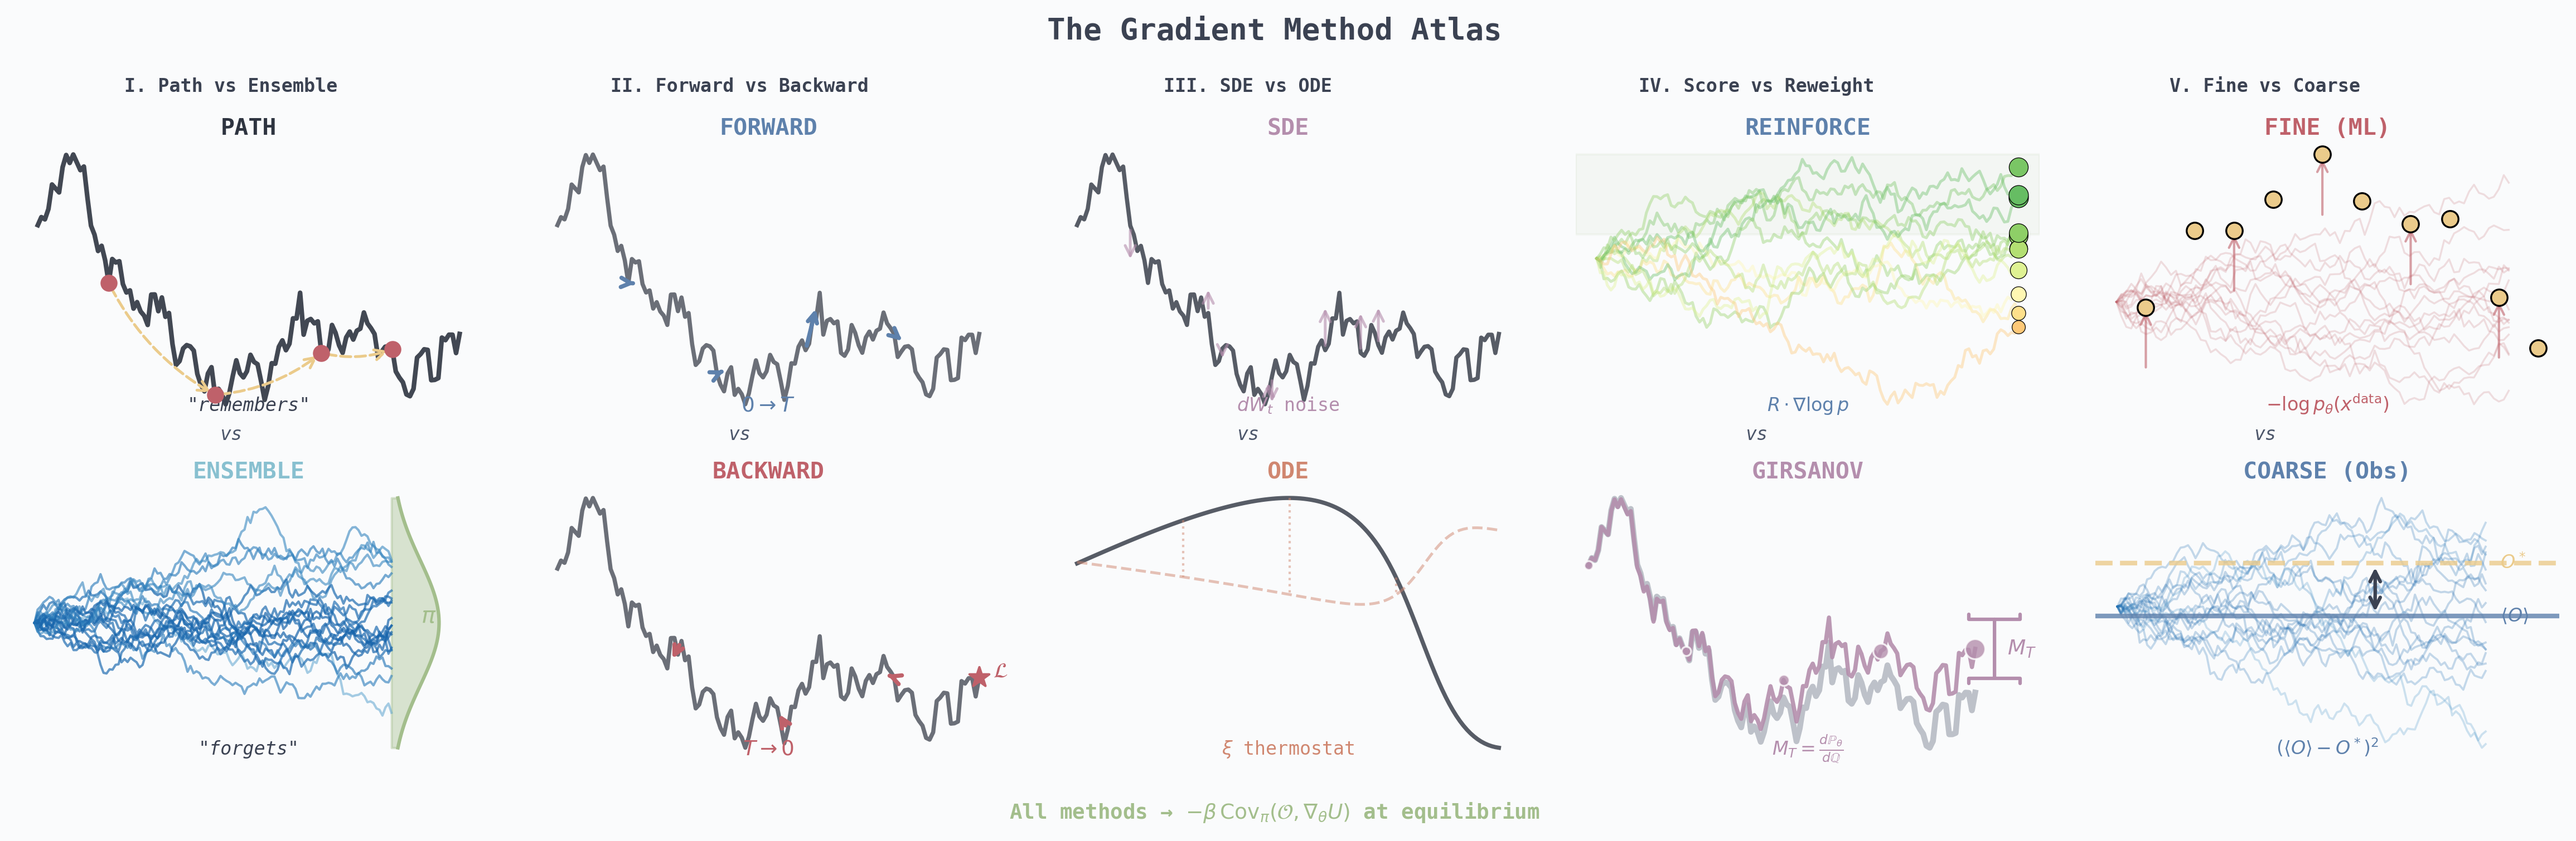
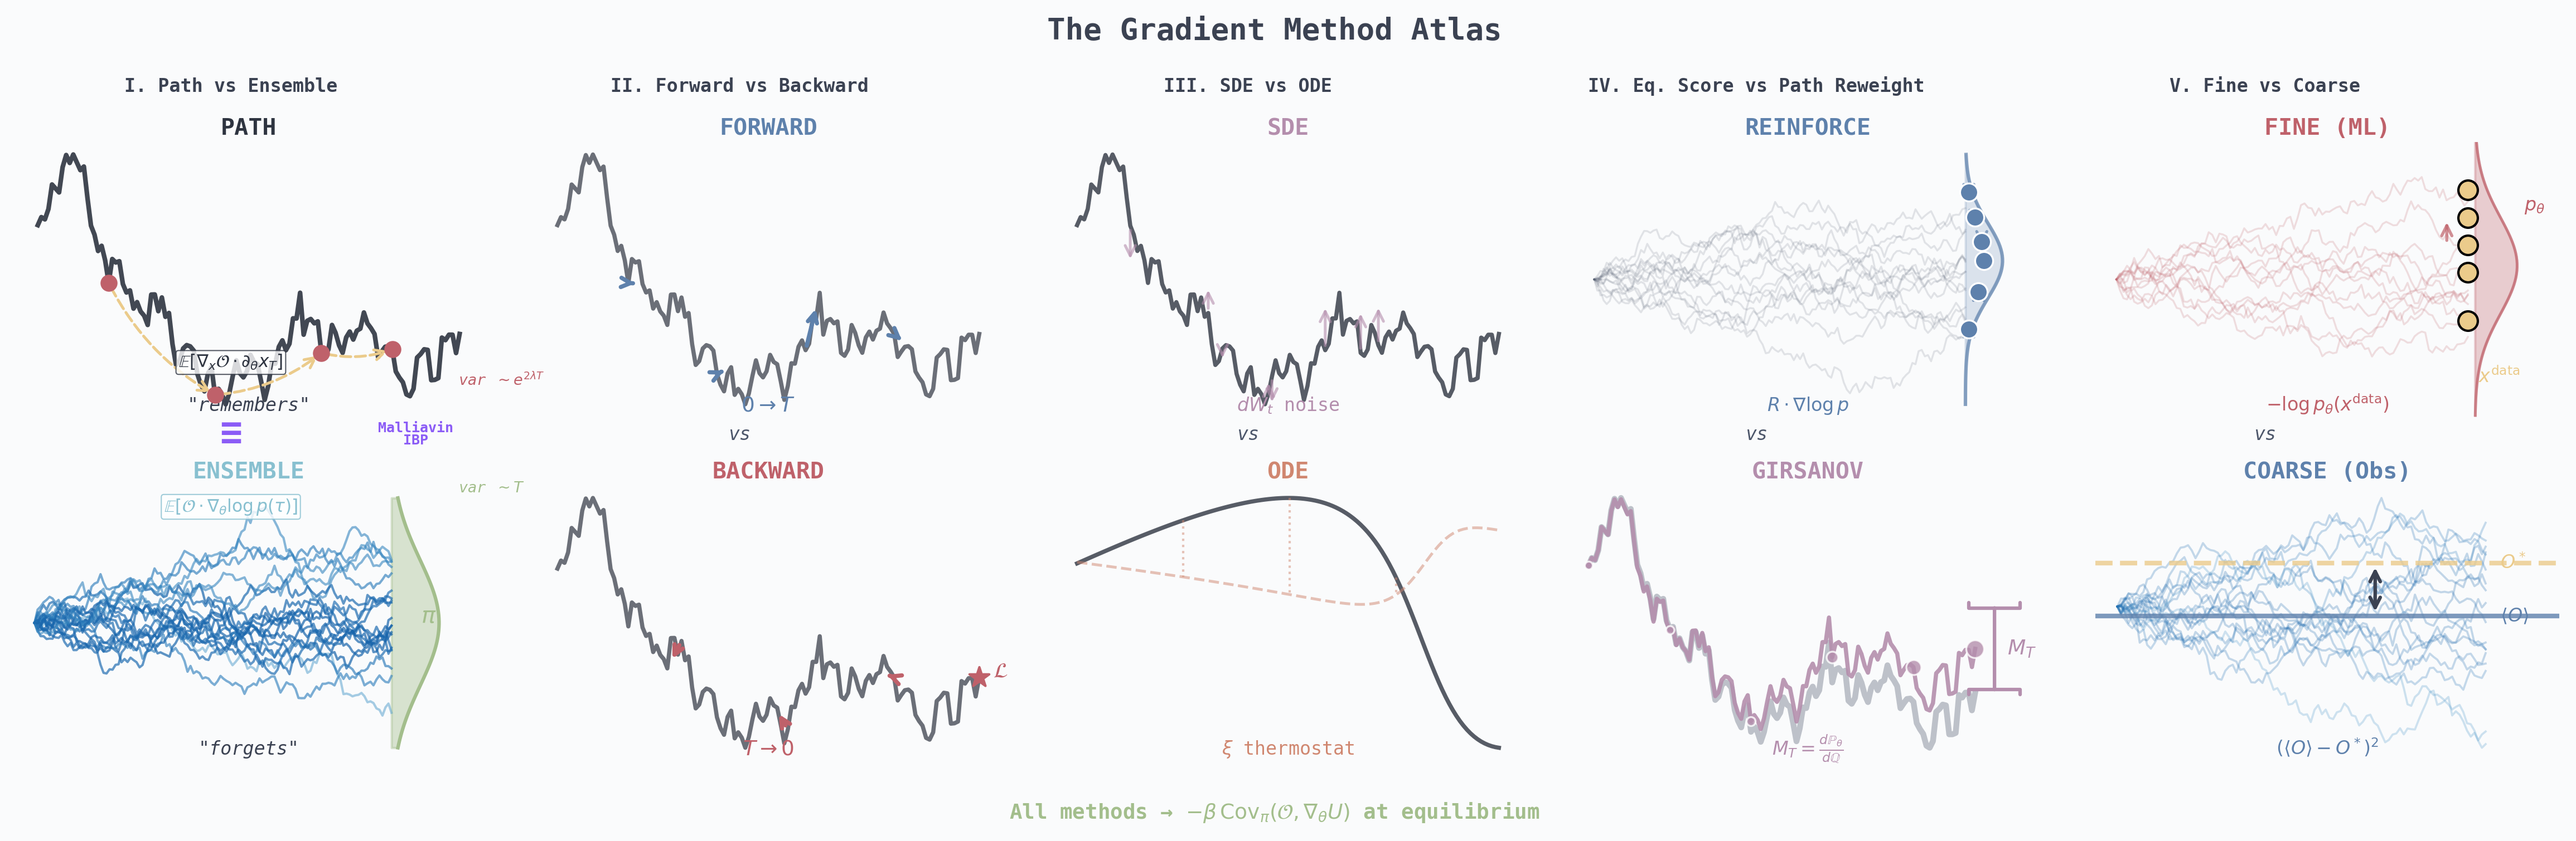
tweka ML plot; add IVP connection

diff --git a/scripts/visualize_gradient_atlas.py b/scripts/visualize_gradient_atlas.py
@@ -107,11 +107,15 @@ def draw_flow_arrow(ax, t, x, idx, direction='forward', color='black', size=10):
 # =============================================================================
 
 def plot_path(ax):
-    """Single path - remembers everything."""
+    """Single path - remembers everything. Pathwise/reparameterization gradient.
+    
+    Pathwise: E[∇_x O · ∂x_T/∂θ] - explicit Jacobian Φ(T,t)
+    Variance ~ exp(2λT) due to Lyapunov instability
+    """
     t, x = generate_sde_trajectory(seed=42, n_steps=120)
     ax.plot(t, x, color=ATLAS_COLORS['path_single'], lw=2, alpha=0.9)
     
-    # Mark memory chain
+    # Mark sensitivity chain - Jacobian Φ(T,t) propagates through history
     events = [20, 50, 80, 100]
     for ev in events:
         ax.scatter(t[ev], x[ev], s=40, color=ATLAS_COLORS['arrow_bwd'], zorder=10)
@@ -122,13 +126,22 @@ def plot_path(ax):
                                    lw=1.2, ls='--', connectionstyle='arc3,rad=0.15'))
     
     ax.set_title('PATH', fontsize=10, fontweight='bold', color=ATLAS_COLORS['path_single'], pad=3)
+    # Show the pathwise formula
     ax.text(0.5, 0.02, '"remembers"', transform=ax.transAxes, ha='center', fontsize=8,
             style='italic', color=ATLAS_COLORS['annotation'])
     clean_axis(ax)
 
 
 def plot_ensemble(ax):
-    """Ensemble - forgets history."""
+    """Ensemble - forgets history. Score function/REINFORCE gradient.
+    
+    REINFORCE: E[O · ∇_θ log p(τ)] - score function estimator
+    Variance ~ T (Itô isometry) - much better than exp(2λT)!
+    
+    KEY: Malliavin IBP shows PATH ↔ ENSEMBLE are equivalent:
+    E[∇_x O · ∂x_T/∂θ] = E[O · ∇_θ log p(τ)]
+    The Jacobian is "hidden" in the score!
+    """
     n_paths = 20
     for i in range(n_paths):
         t, x = generate_sde_trajectory(seed=100 + i, n_steps=120, noise_scale=0.35)
@@ -136,7 +149,7 @@ def plot_ensemble(ax):
         color = plt.cm.Blues(0.3 + 0.5 * weight)
         ax.plot(t, x, color=color, alpha=0.3 + 0.4 * weight, lw=1)
     
-    # Equilibrium distribution
+    # Equilibrium distribution - the ONLY thing that matters for ensemble view
     y_range = np.linspace(-2, 2, 80)
     eq_dist = np.exp(-0.5 * y_range**2)
     eq_dist = eq_dist / eq_dist.max() * 0.8
@@ -145,6 +158,7 @@ def plot_ensemble(ax):
     ax.text(t[-1] + 0.5, 0, '$\\pi$', fontsize=10, color=ATLAS_COLORS['equilibrium'], fontweight='bold')
     
     ax.set_title('ENSEMBLE', fontsize=10, fontweight='bold', color=ATLAS_COLORS['ensemble_base'], pad=3)
+    # Emphasize this is space average over distribution (history forgotten)
     ax.text(0.5, 0.02, '"forgets"', transform=ax.transAxes, ha='center', fontsize=8,
             style='italic', color=ATLAS_COLORS['annotation'])
     ax.set_xlim(t[0] - 0.3, t[-1] + 1.5)
@@ -235,26 +249,63 @@ def plot_ode(ax):
 # =============================================================================
 
 def plot_reinforce(ax):
-    """REINFORCE - score function estimator."""
-    n_paths = 12
+    """REINFORCE - equilibrium score function estimator.
+    
+    Uses score of the EQUILIBRIUM distribution: ∇_θ log π(x) = -β∇_θU(x)
+    Each sample gets weighted by its local score - no path memory needed.
+    """
+    n_paths = 15
+    
+    # Show samples from equilibrium distribution (endpoints only matter)
+    np.random.seed(200)
+    endpoints_x = np.random.randn(n_paths) * 0.8 + 0.5  # samples from π
+    endpoints_y = np.linspace(0.1, 0.9, n_paths)  # just for visual spread
+    
+    # Draw faded trajectories leading to endpoints (to show they don't matter)
     for i in range(n_paths):
         t, x = generate_sde_trajectory(seed=200 + i, n_steps=120, noise_scale=0.35)
-        reward = np.exp(-0.5 * (x[-1] - 0.8)**2)
-        color = plt.cm.RdYlGn(0.2 + 0.6 * reward)
-        ax.plot(t, x, color=color, alpha=0.4, lw=1.2)
-        ax.scatter(t[-1], x[-1], s=20 + 50 * reward, color=color, edgecolor='black', lw=0.3, zorder=5)
+        # Fade the trajectory - history doesn't matter for equilibrium score
+        ax.plot(t, x, color=ATLAS_COLORS['gray'], alpha=0.15, lw=0.8)
     
-    # Target region
-    ax.axhspan(0.3, 1.3, alpha=0.08, color=ATLAS_COLORS['equilibrium'])
+    # Equilibrium distribution on the right
+    y_range = np.linspace(-2, 2, 80)
+    eq_dist = np.exp(-0.5 * (y_range - 0.3)**2 / 0.6**2)
+    eq_dist = eq_dist / eq_dist.max() * 0.6
+    t_end = 6.0
+    ax.fill_betweenx(y_range, t_end, t_end + eq_dist, color=ATLAS_COLORS['reinforce'], alpha=0.2)
+    ax.plot(t_end + eq_dist, y_range, color=ATLAS_COLORS['reinforce'], lw=1.5, alpha=0.7)
+    
+    # Show samples ON the distribution with their local scores
+    sample_ys = np.array([-0.8, -0.2, 0.3, 0.6, 1.0, 1.4])
+    for y in sample_ys:
+        # Sample point on distribution
+        p_val = np.exp(-0.5 * (y - 0.3)**2 / 0.6**2)
+        p_val = p_val / np.exp(0) * 0.6  # normalize
+        ax.scatter(t_end + p_val * 0.5, y, s=60, color=ATLAS_COLORS['reinforce'], 
+                  edgecolor='white', linewidth=0.8, zorder=10)
+        
+        # Local score arrow: ∇_θ log π ∝ -∇_θU (points toward high probability)
+        score_direction = -(y - 0.3) * 0.15  # gradient of log π
+        if abs(score_direction) > 0.02:
+            ax.annotate('', xy=(t_end + p_val * 0.5, y + score_direction),
+                       xytext=(t_end + p_val * 0.5, y),
+                       arrowprops=dict(arrowstyle='->', color=ATLAS_COLORS['reinforce'], 
+                                      lw=1.2, alpha=0.7))
     
     ax.set_title('REINFORCE', fontsize=10, fontweight='bold', color=ATLAS_COLORS['reinforce'], pad=3)
-    ax.text(0.5, 0.02, '$R \\cdot \\nabla \\log p$', transform=ax.transAxes, ha='center', fontsize=8,
+    # Emphasize this is LOCAL score at each sample (no path integral)
+    ax.text(0.5, 0.02, '$R \\cdot \\nabla\\log p$', transform=ax.transAxes, ha='center', fontsize=8,
             color=ATLAS_COLORS['reinforce'])
+    ax.set_xlim(-0.3, t_end + 1.2)
     clean_axis(ax)
 
 
 def plot_girsanov(ax):
-    """Girsanov - path reweighting with M_T illustration."""
+    """Girsanov - path reweighting via Radon-Nikodym derivative.
+    
+    Computes PATH INTEGRAL: M_T = exp(∫₀ᵀ ... dW_t)
+    The weight accumulates along the ENTIRE trajectory - path memory required.
+    """
     t, x_ref = generate_sde_trajectory(seed=42, n_steps=120, drift_scale=0.05)
     ax.plot(t, x_ref, color=ATLAS_COLORS['gray'], lw=2.5, alpha=0.35, label='$\\mathbb{Q}$')
     
@@ -267,33 +318,34 @@ def plot_girsanov(ax):
         x_pert[i] = x_pert[i-1] - 0.15 * x_pert[i-1] * dt + 0.3 * np.sqrt(dt) * np.random.randn()
     ax.plot(t, x_pert, color=ATLAS_COLORS['girsanov'], lw=1.8, alpha=0.9, label='$\\mathbb{P}_\\theta$')
     
-    # Compute and show M_t accumulating (as growing markers)
-    # M_t = exp(∫ (b_θ - b_Q)/σ dW - 1/2 ∫ ((b_θ - b_Q)/σ)² dt)
-    weight_pts = [0, 30, 60, 90, 119]
+    # Compute and show M_t ACCUMULATING along the path (key visual!)
+    # M_t = exp(∫₀ᵗ (b_θ - b_Q)/σ dW - 1/2 ∫₀ᵗ ((b_θ - b_Q)/σ)² ds)
+    weight_pts = [0, 25, 50, 75, 100, 119]
     M_values = [1.0]  # M_0 = 1
     for i in range(1, len(weight_pts)):
-        # Simplified: M grows with drift difference accumulation
-        drift_diff_accum = np.sum(np.abs(x_pert[:weight_pts[i]] - x_ref[:weight_pts[i]])) * 0.02
-        M_values.append(np.exp(drift_diff_accum * 0.3))
+        # M accumulates along path - this is a PATH INTEGRAL
+        drift_diff_accum = np.sum(np.abs(x_pert[:weight_pts[i]] - x_ref[:weight_pts[i]])) * 0.015
+        M_values.append(np.exp(drift_diff_accum * 0.4))
     
     # Normalize for visualization
     M_values = np.array(M_values)
-    M_normalized = (M_values - M_values.min()) / (M_values.max() - M_values.min())
+    M_normalized = (M_values - M_values.min()) / (M_values.max() - M_values.min() + 0.01)
     
-    # Draw M_t as growing circles along the perturbed path
+    # Draw M_t as GROWING circles to show accumulation
     for i, pt in enumerate(weight_pts):
-        size = 15 + 60 * M_normalized[i]
+        size = 12 + 55 * M_normalized[i]
         ax.scatter(t[pt], x_pert[pt], s=size, color=ATLAS_COLORS['girsanov'], 
                   edgecolor='white', linewidth=0.8, zorder=10, alpha=0.8)
     
-    # Draw bracket showing M_T at the end
-    ax.annotate('', xy=(t[-1] + 0.3, x_pert[-1] + 0.15),
-                xytext=(t[-1] + 0.3, x_pert[-1] - 0.15),
+    # Draw bracket showing final M_T
+    ax.annotate('', xy=(t[-1] + 0.3, x_pert[-1] + 0.2),
+                xytext=(t[-1] + 0.3, x_pert[-1] - 0.2),
                 arrowprops=dict(arrowstyle=']-[', color=ATLAS_COLORS['girsanov'], lw=1.5))
     ax.text(t[-1] + 0.5, x_pert[-1], '$M_T$', fontsize=9, color=ATLAS_COLORS['girsanov'],
            fontweight='bold', va='center')
     
     ax.set_title('GIRSANOV', fontsize=10, fontweight='bold', color=ATLAS_COLORS['girsanov'], pad=3)
+    # Emphasize this is a PATH INTEGRAL (Radon-Nikodym derivative)
     ax.text(0.5, 0.02, '$M_T = \\frac{d\\mathbb{P}_\\theta}{d\\mathbb{Q}}$', 
             transform=ax.transAxes, ha='center', fontsize=8, color=ATLAS_COLORS['girsanov'])
     ax.set_xlim(t[0] - 0.2, t[-1] + 1.0)
@@ -305,32 +357,55 @@ def plot_girsanov(ax):
 # =============================================================================
 
 def plot_fine(ax):
-    """Fine-grained: Maximum Likelihood - match individual samples."""
-    # Generate model samples
-    n_model = 15
+    """Fine-grained: Maximum Likelihood - simulation guided toward data configurations.
+    
+    Shows trajectories being "pulled" toward data points (target configurations).
+    The gradient is: E_data[∇U] - E_sim[∇U] (contrastive divergence).
+    """
     np.random.seed(300)
     
-    # Data points (target)
-    data_x = np.array([0.3, 0.8, 1.2, 1.6, 2.1, 2.5, 3.0, 3.4, 3.9, 4.3])
-    data_y = np.sin(data_x * 0.8) * 0.8 + np.random.randn(len(data_x)) * 0.15
+    # Generate simulation trajectories
+    n_traj = 12
+    for i in range(n_traj):
+        t, x = generate_sde_trajectory(seed=300 + i, n_steps=100, noise_scale=0.32)
+        ax.plot(t, x, color=ATLAS_COLORS['fine'], alpha=0.2, lw=0.8)
     
-    # Model samples (from simulation)
-    for i in range(n_model):
-        t, x = generate_sde_trajectory(seed=300 + i, n_steps=80, noise_scale=0.3)
-        # Fade based on distance to show "matching"
-        ax.plot(t * 0.8, x * 0.6, color=ATLAS_COLORS['fine'], alpha=0.2, lw=0.8)
+    # Data points (target configurations) - shown at the END of trajectory space
+    # These are the x^data we want to maximize likelihood of
+    data_targets = np.array([-0.6, 0.1, 0.5, 0.9, 1.3])
+    t_end = 5.0  # end of trajectory
     
-    # Data points highlighted
-    ax.scatter(data_x * 0.8, data_y, s=50, color=ATLAS_COLORS['data'], 
-              edgecolor='black', linewidth=0.8, zorder=10, marker='o')
+    for y_data in data_targets:
+        # Data point marker (yellow circle)
+        ax.scatter(t_end, y_data, s=70, color=ATLAS_COLORS['data'], 
+                  edgecolor='black', linewidth=1, zorder=10, marker='o')
     
-    # Arrows from model to data (showing per-sample matching)
-    for i in range(0, len(data_x), 2):
-        ax.annotate('', xy=(data_x[i] * 0.8, data_y[i]),
-                   xytext=(data_x[i] * 0.8, data_y[i] - 0.4),
-                   arrowprops=dict(arrowstyle='->', color=ATLAS_COLORS['fine'], 
-                                  lw=1, alpha=0.6))
+    # Show model distribution p_θ at the end (where simulation lands)
+    y_range = np.linspace(-2, 2, 80)
+    # Current model distribution (slightly misaligned with data)
+    model_dist = np.exp(-0.5 * (y_range - 0.2)**2 / 0.7**2)
+    model_dist = model_dist / model_dist.max() * 0.6
+    ax.fill_betweenx(y_range, t_end + 0.1, t_end + 0.1 + model_dist, 
+                     color=ATLAS_COLORS['fine'], alpha=0.3)
+    ax.plot(t_end + 0.1 + model_dist, y_range, color=ATLAS_COLORS['fine'], lw=1.2, alpha=0.7)
     
+    # Arrows from model distribution toward data points (showing gradient direction)
+    # This is the "contrastive" part: push probability toward data
+    for y_data in data_targets[1:4]:  # show a few arrows
+        # Arrow from current model peak toward data
+        model_y = 0.2  # current model mean
+        if abs(y_data - model_y) > 0.2:
+            ax.annotate('', xy=(t_end - 0.3, y_data),
+                       xytext=(t_end - 0.3, model_y + 0.3 * np.sign(y_data - model_y)),
+                       arrowprops=dict(arrowstyle='->', color=ATLAS_COLORS['fine'], 
+                                      lw=1.3, alpha=0.7))
+    
+    # Labels
+    ax.text(t_end + 0.8, 1.0, '$p_\\theta$', fontsize=8, color=ATLAS_COLORS['fine'], fontweight='bold')
+    ax.text(t_end + 0.15, -1.5, '$x^{\\mathrm{data}}$', fontsize=8, color=ATLAS_COLORS['data'])
+    
+    ax.set_xlim(-0.3, t_end + 1.3)
+    ax.set_ylim(-2, 2)
     ax.set_title('FINE (ML)', fontsize=10, fontweight='bold', color=ATLAS_COLORS['fine'], pad=3)
     ax.text(0.5, 0.02, '$-\\log p_\\theta(x^{\\mathrm{data}})$', 
             transform=ax.transAxes, ha='center', fontsize=8, color=ATLAS_COLORS['fine'])
@@ -388,12 +463,12 @@ def main():
     gs = fig.add_gridspec(2, 5, hspace=0.25, wspace=0.12,
                           left=0.03, right=0.98, top=0.82, bottom=0.08)
     
-    # Column labels
+    # Column labels (updated IV to clarify the distinction)
     col_info = [
         ('I', 'Path vs Ensemble'),
         ('II', 'Forward vs Backward'),
         ('III', 'SDE vs ODE'),
-        ('IV', 'Score vs Reweight'),
+        ('IV', 'Eq. Score vs Path Reweight'),
         ('V', 'Fine vs Coarse'),
     ]
     
@@ -430,10 +505,47 @@ def main():
                 color=ATLAS_COLORS['annotation'], ha='center')
     
     # "vs" labels between rows (in the middle of each column)
-    for i in range(5):
+    # For other columns, just "vs"
+    for i in range(1, 5):
         x_pos = 0.11 + i * 0.19
         fig.text(x_pos, 0.47, 'vs', fontsize=8, color=ATLAS_COLORS['gray'],
                 ha='center', va='center', style='italic')
+    
+    # ==========================================================================
+    # Column I: Add IBP equivalence annotation between PATH and ENSEMBLE
+    # This is the key mathematical insight: Malliavin IBP shows they're equivalent
+    # ==========================================================================
+    ibp_color = '#8B5CF6'  # Purple for the IBP connection
+    
+    # Position for the IBP annotation (between the two panels of column I)
+    x_ibp = 0.11
+    
+    # Top formula (PATH): E[∇_x O · ∂x_T/∂θ] - the pathwise/reparameterization gradient
+    fig.text(x_ibp, 0.545, '$\\mathbb{E}[\\nabla_x \\mathcal{O} \\cdot \\partial_\\theta x_T]$', 
+             fontsize=7.5, ha='center', va='bottom', color=ATLAS_COLORS['path_single'],
+             fontweight='bold', bbox=dict(boxstyle='round,pad=0.15', facecolor='white', 
+                                          edgecolor=ATLAS_COLORS['path_single'], alpha=0.8, lw=0.5))
+    
+    # Large equivalence symbol with "Malliavin IBP" label
+    fig.text(x_ibp, 0.47, '≡', fontsize=16, ha='center', va='center', 
+             color=ibp_color, fontweight='bold')
+    fig.text(x_ibp + 0.055, 0.47, 'Malliavin\n   IBP', fontsize=6, ha='left', va='center', 
+             color=ibp_color, fontweight='bold', linespacing=0.9)
+    
+    # Bottom formula (ENSEMBLE): E[O · ∇_θ log p(τ)] - the score/REINFORCE gradient
+    fig.text(x_ibp, 0.395, '$\\mathbb{E}[\\mathcal{O} \\cdot \\nabla_\\theta \\log p(\\tau)]$', 
+             fontsize=7.5, ha='center', va='top', color=ATLAS_COLORS['ensemble_base'],
+             fontweight='bold', bbox=dict(boxstyle='round,pad=0.15', facecolor='white', 
+                                          edgecolor=ATLAS_COLORS['ensemble_base'], alpha=0.8, lw=0.5))
+    
+    # Variance comparison - the KEY practical difference!
+    # PATH has exponential variance (Lyapunov), ENSEMBLE has linear variance (Itô)
+    fig.text(x_ibp + 0.085, 0.535, 'var $\\sim e^{2\\lambda T}$', 
+             fontsize=6.5, ha='left', va='center', color=ATLAS_COLORS['arrow_bwd'], 
+             style='italic')
+    fig.text(x_ibp + 0.085, 0.405, 'var $\\sim T$', 
+             fontsize=6.5, ha='left', va='center', color=ATLAS_COLORS['equilibrium'], 
+             style='italic')
     
     # Main title
     fig.suptitle('The Gradient Method Atlas', fontsize=13, fontweight='bold',
